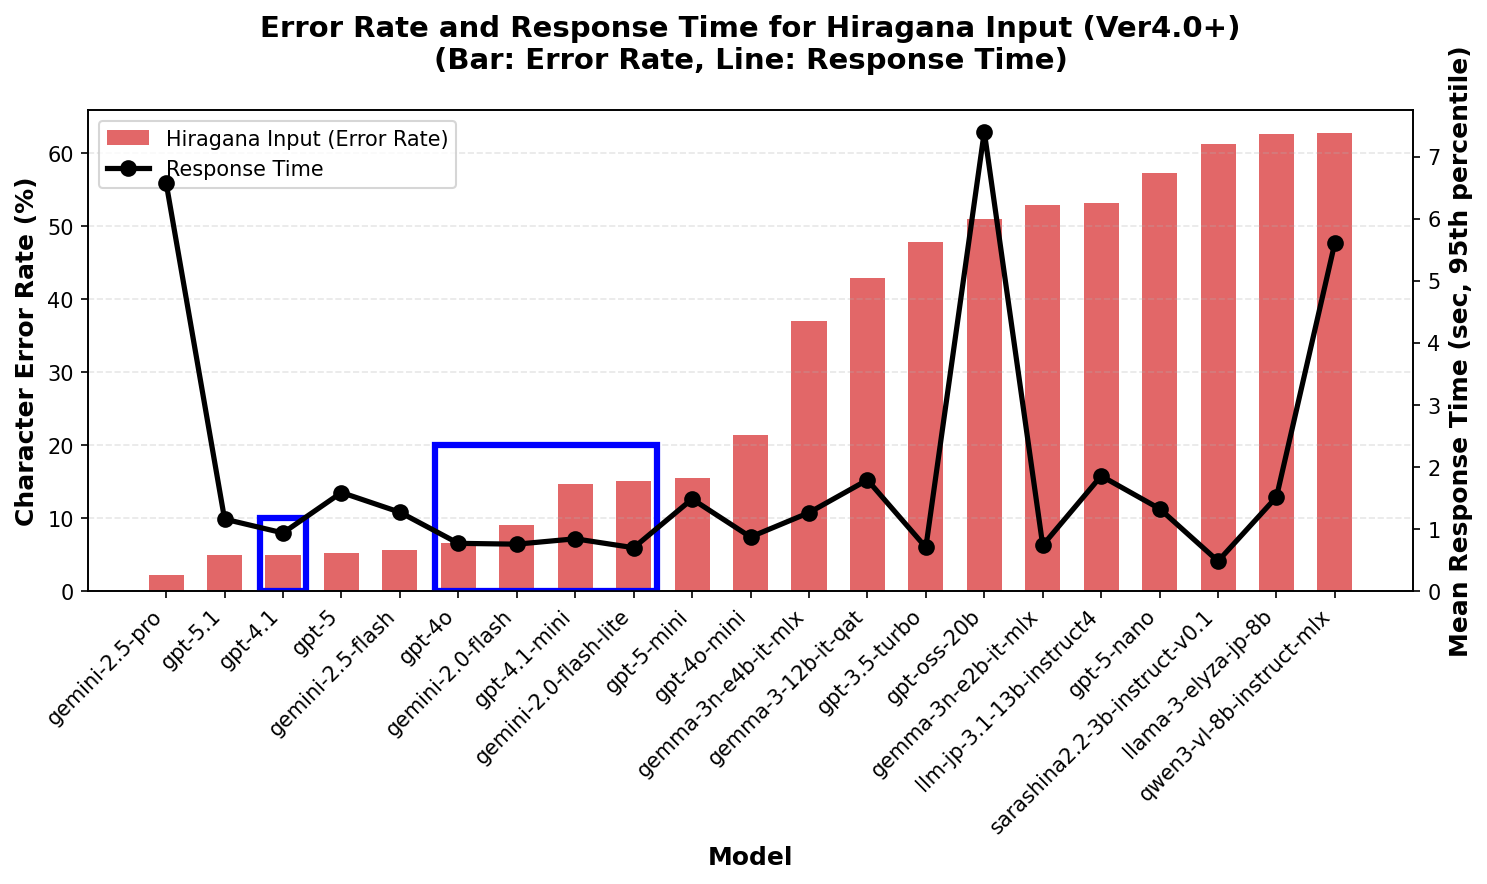
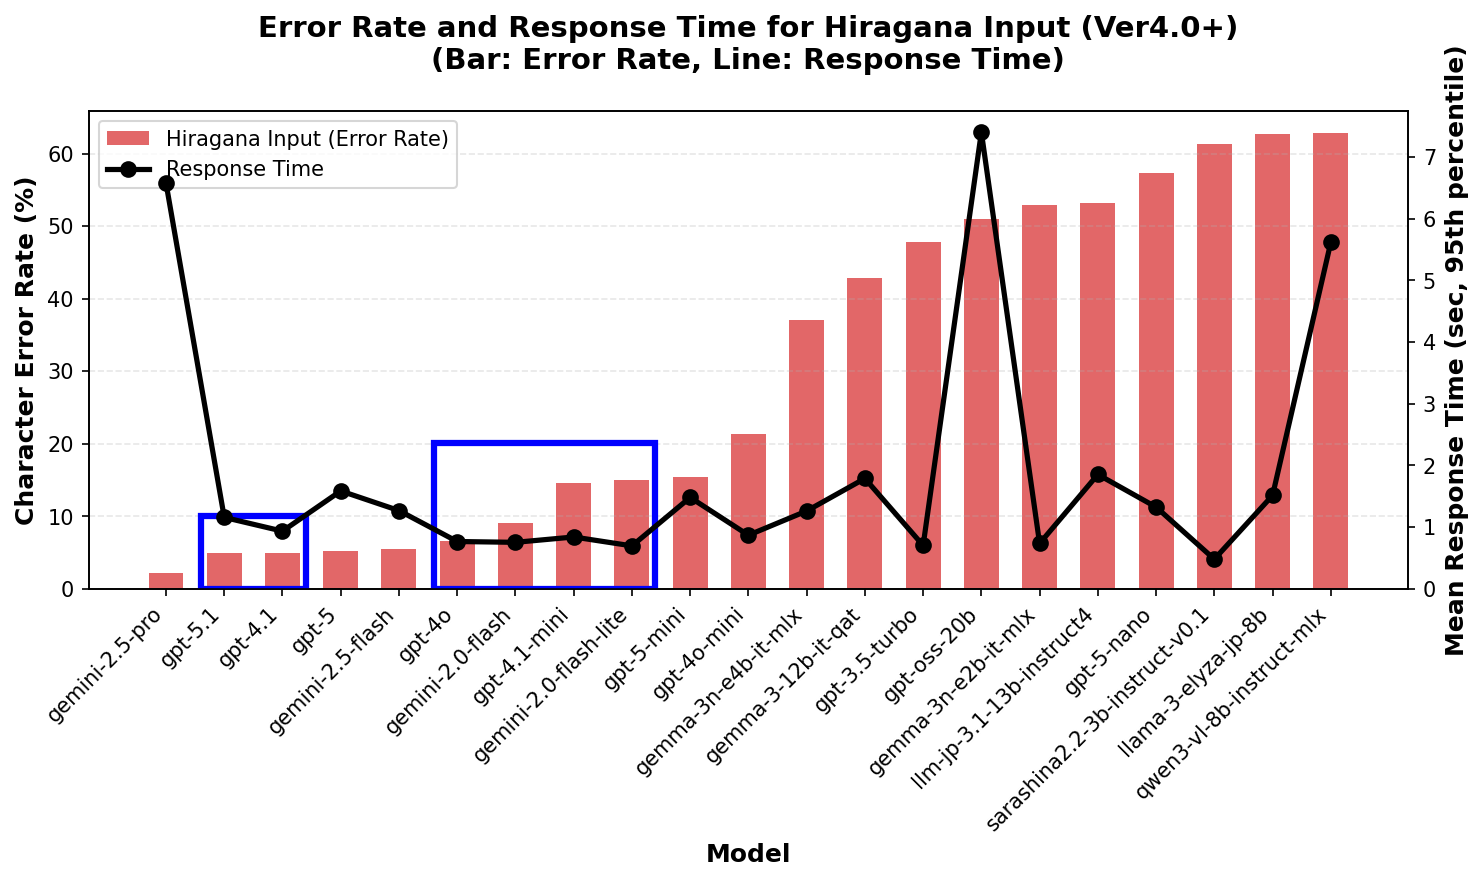
Develop ver 4.1 (#105)
* GPT-5.1をサポートモデルに追加 (#103) (#104)

GPT-5.1モデルを選択可能にし、API呼び出し時に
reasoning_effort=none と verbosity=low を設定して
良好なレスポンスを得られるようにした。

- sumibi-model-list に gpt-5.1 を追加
- sumibi-gpt51-p 判定関数を追加
- GPT-5.1用のAPIパラメータ設定を追加

🤖 Generated with [Claude Code](https://claude.com/claude-code)

* README.mdにgpt-5.1の情報を追加した
* sumibi.elのデフォルトモデルをgpt-5.1に変更した
* Versionを4.1.0に上げた

---------

diff --git a/benchmark/plot_errorrate_vs_inputtype_hiragana.py b/benchmark/plot_errorrate_vs_inputtype_hiragana.py
@@ -146,11 +146,11 @@ def plot_hiragana_errorrate_and_responsetime(
     # 凡例を表示
     ax1.legend(lines, labels, loc='upper left', fontsize=10)
 
-    # レスポンス時間1秒以内かつエラー率20%以内のモデルを青枠で囲む
+    # レスポンス時間1.2秒以内かつエラー率20%以内のモデルを青枠で囲む
     # 条件を満たすモデルのインデックスを抽出
     target_indices = []
     for i, d in enumerate(models_data):
-        if d['hiragana_time'] <= 1.0 and d['hiragana_cer'] <= 0.20:
+        if d['hiragana_time'] <= 1.2 and d['hiragana_cer'] <= 0.20:
             target_indices.append(i)
 
     # 連続した範囲ごとにグループ化して青枠を描画
@@ -194,7 +194,7 @@ def plot_hiragana_errorrate_and_responsetime(
     # 保存
     plt.savefig(output_path, dpi=150, bbox_inches='tight')
     print(f"Graph saved to: {output_path}")
-    print(f"\nHighlighted models (Response time ≤ 1.0s AND Error rate ≤ 20%):")
+    print(f"\nHighlighted models (Response time ≤ 1.2s AND Error rate ≤ 20%):")
     for idx in target_indices:
         d = models_data[idx]
         print(f"  - {d['model']}: {d['hiragana_cer']*100:.1f}%, {d['hiragana_time']:.2f}s")

diff --git a/README.md b/README.md
@@ -70,8 +70,15 @@ M-x sumibi-switch-modelでポップアップから利用モデルを動的に変
 
 https://github.com/user-attachments/assets/7fae1c5b-84ed-402c-9b5e-9bfb39f29237
 
-デフォルトでは、"gpt-5"、"gpt-5-mini"、"gpt-4.1"、"gpt-4o"など多数のモデル名を登録しています。
+デフォルトでは、"gpt-5.1"、"gpt-5"、"gpt-5-mini"、"gpt-4.1"、"gpt-4o"など多数のモデル名を登録しています。
 選択肢を増やしたい場合は、カスタマイズ変数 `sumibi-model-list` に候補を追加してください。
+
+### Sumibiに合ったモデルは？
+
+Sumibiを快適に使うためには、応答速度と変換精度の両方を満たすモデルが必要です。
+以下の青枠の中がスイートスポットですが、その中でもランニングコストなども考慮して、gpt-5.1とgemini-2.0-flashが最も適しているといえます。(2025年11月時点)
+
+![plot_errorrate_vs_inputtype_hiragana_1000x600.png](./images/plot_errorrate_vs_inputtype_hiragana_1000x600.png)
 
 ## Undo
 
@@ -110,13 +117,6 @@ AIサービスはOpenAI以外にも切り替えられます。OpenAIのcompletio
     ```
 
     上記の例は、Windows環境にLLM Studioをインストールし、モデル gemma-3-12b-it-qat をホストしたエンドポイントに接続した一つの例です。
-
-### Sumibiに合ったモデルは？
-
-Sumibiを快適に使うためには、応答速度と変換精度の両方を満たすモデルが必要です。
-以下の青枠の中がスイートスポットですが、その中でもランニングコストなども考慮して、gemini-2.0-flashが最も適しているといえます。(2025年11月時点)
-
-![plot_errorrate_vs_inputtype_hiragana_1000x600.png](./images/plot_errorrate_vs_inputtype_hiragana_1000x600.png)
 
 ## 前後の文章の取り込み行数の調整
 
